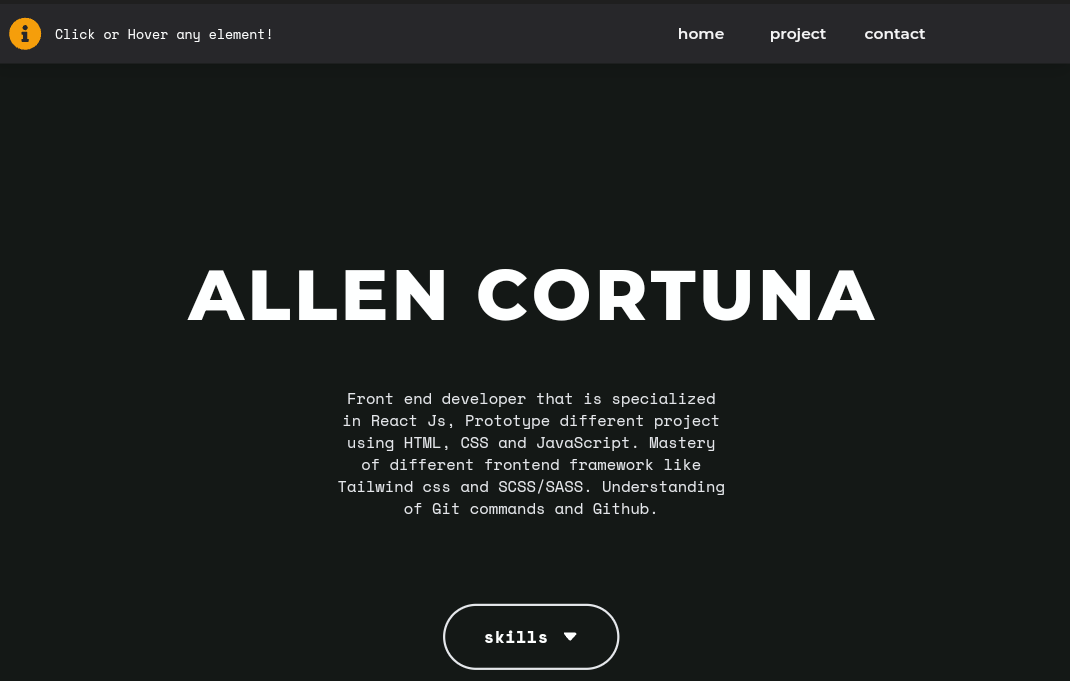
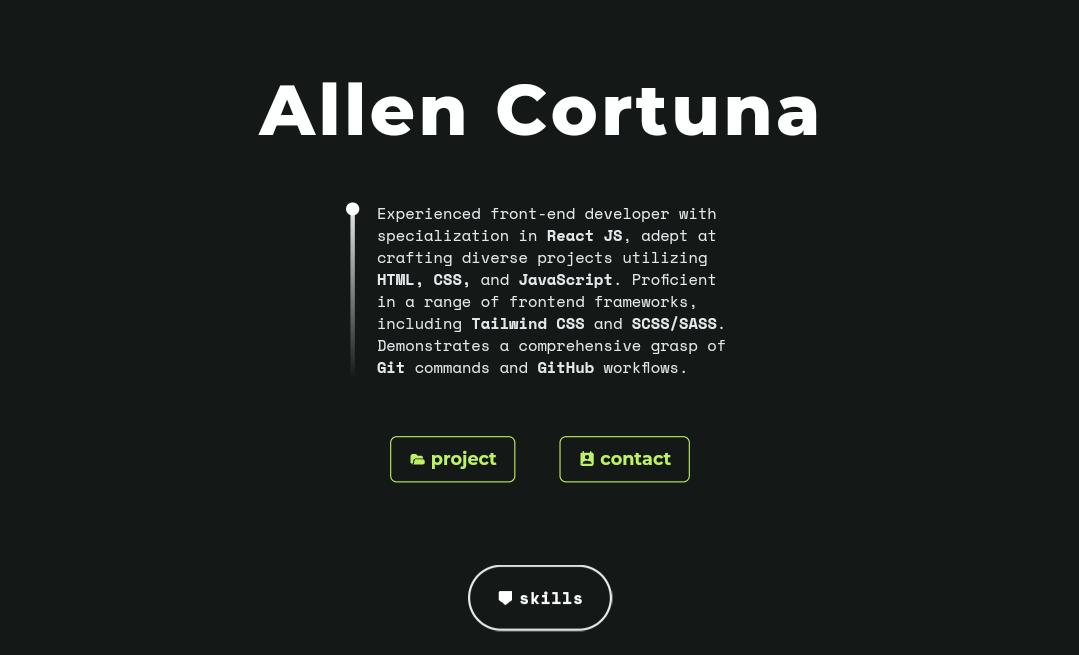
profile changes

diff --git a/src/component/PersonalInfo.js b/src/component/PersonalInfo.js
@@ -3,7 +3,7 @@ import useHint from "./state/hint";
 import { motion, useAnimation } from "framer-motion";
 import { useInView } from "react-intersection-observer";
 import { useEffect } from "react";
-import { FaArrowAltCircleDown } from "react-icons/fa";
+import { RiHomeFill } from "react-icons/ri";
 import { Link } from "react-router-dom";
 import { MdPermContactCalendar } from "react-icons/md";
 import { HiFolderOpen } from "react-icons/hi";
@@ -71,11 +71,7 @@ const Baner = () => {
         >
           <span className="w-auto text-center">
             {letters.map((letter) => (
-              <p
-                className="mt-5 text-white font-[800] text-[3.5rem] md:text-[4rem] leading-[2.8rem] md:leading-[4rem] hover:text-lime-400 md:text-[4.6rem] hover:text-[4.4rem] md:hover:text-[5.2rem] letter transition-all ease-linear duration-400 hover:animate-bounce inline uppercase mx-[0.1rem] hover:skew-y-12 transform"
-
-              // onClick={()=> setStat("info","Full Name")}
-              >
+              <p className="mt-5 text-white font-[800] text-[3.5rem] md:text-[4rem] leading-[2.8rem] md:leading-[4rem] hover:text-lime-400 md:text-[4.6rem] hover:text-[4.4rem] md:hover:text-[5.2rem] letter transition-all ease-linear duration-400 hover:animate-bounce inline 'use strict'capitalized mx-[0.1rem] hover:skew-y-12 transform">
                 {letter}
               </p>
             ))}
@@ -121,11 +117,11 @@ const Baner = () => {
         </span>
 
         <button
-          className="mt-10 border border-2 rounded-full p-4 text-center bg-none text-white w-[10rem] mx-auto space font-[700] flex flex-row justify-center content-center gap-3 hover:bg-amber-300 hover:border-zinc-900 hover:text-black transition-all ease-linear duration-400 animate-bounce"
+          className="mt-10 border border-2 rounded-full p-4 px-6 text-center bg-none text-white mx-auto space font-[700] flex flex-row justify-center content-center gap-1 hover:bg-amber-300 hover:border-zinc-900 hover:text-black transition-all ease-linear duration-400 animate-bounce"
           onClick={scrollToElement}
         >
+          <RiHomeFill className="mt-1 rotate-[180deg]" />
           <p className="">skills</p>
-          <FaArrowAltCircleDown className="mt-0.5" />
         </button>
       </span>
     </>

diff --git a/src/component/Home.js b/src/component/Home.js
@@ -2,7 +2,7 @@ import React from "react";
 import PersonalInfo  from './PersonalInfo'
 import Skills from "./Skill";
 import useHint from "./state/hint";
-import { FaArrowAltCircleUp } from "react-icons/fa";
+import { RiHomeFill } from "react-icons/ri";
 
 const Home = () => {
 
@@ -17,17 +17,17 @@ const Home = () => {
   
   return (
     <div className="p-4">
-      <div className=" mt-10 grid grid-cols-1 gap-y-10 justify-items-center">
+      <div className=" my-10 grid grid-cols-1 gap-y-10 justify-items-center">
         <PersonalInfo/>
         <Skills/>
         <button
-          className="mt-20 border rounded-full p-3 text-center bg-none text-white w-[10rem] mx-auto space font-[700] text-xs flex flex-row justify-center content-center gap-3 hover:bg-amber-300 hover:border-amber-300 hover:text-black transition-all ease-linear duration-300 animate-bounce"
+          className="mt-20 border rounded-md p-3 px-5 text-center bg-none text-white mx-auto space font-[700] text-sm flex flex-row justify-center content-center gap-1 hover:bg-amber-300 hover:border-amber-300 hover:text-black transition-all ease-linear duration-300"
           
           onClick={scrollToTop}
         >
+          <RiHomeFill className="mt-1"/>
           <p className="">
-          scroll to top</p>
-          <FaArrowAltCircleUp className="mt-0.5" />
+          back</p>
         </button>
       </div>
     </div>

diff --git a/src/component/navbar/Hint.js b/src/component/navbar/Hint.js
@@ -31,8 +31,15 @@ const Hint = () => {
       document.getElementById("typewriter").innerHTML = "";
     };
   }, [stat, hint, typeWriter]);
+
+  const setStat = useHint((state) => state.setStat);
+
   return (
-    <Link className="flex justify-start gap-2 content-center" to={"/"}>
+    <Link
+      className="flex justify-start gap-2 content-center"
+      to={"/"}
+      onClick={() => setStat("home", "Welcome !")}
+    >
       {/* status */}
 
       <span className="text-amber-500 rounded-xl p-1 drop=shadow-md text-3xl">
